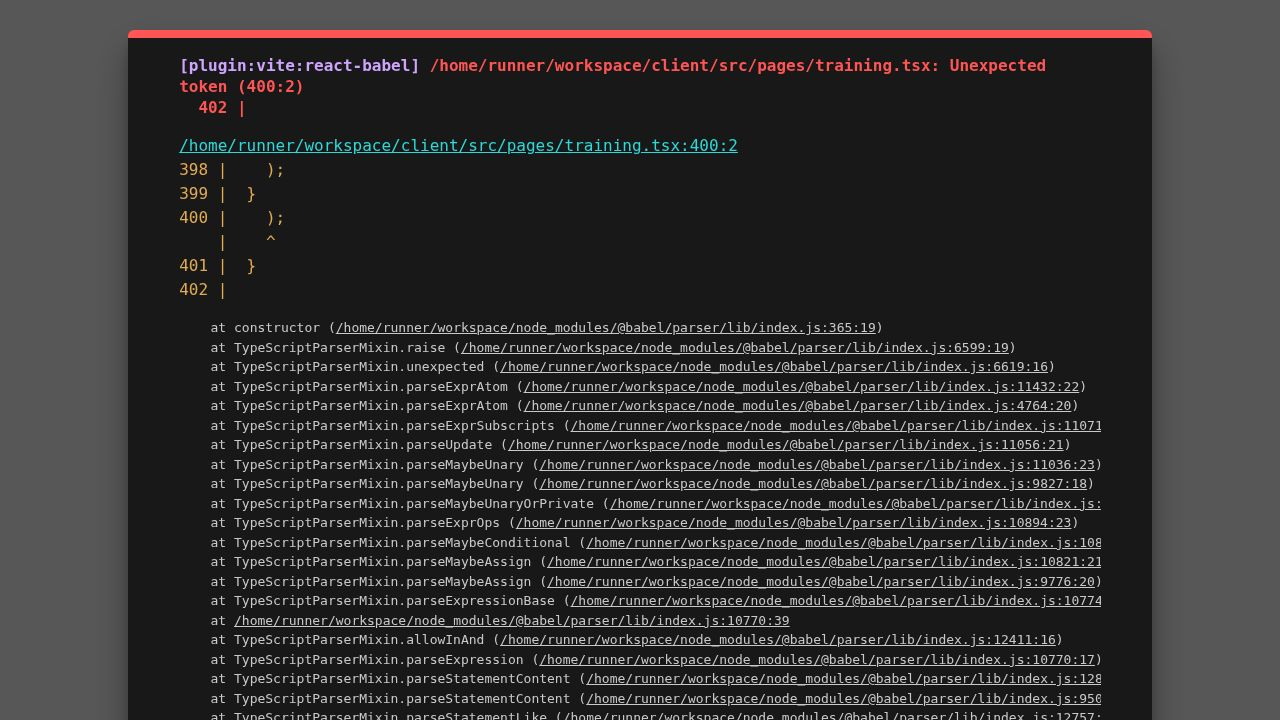
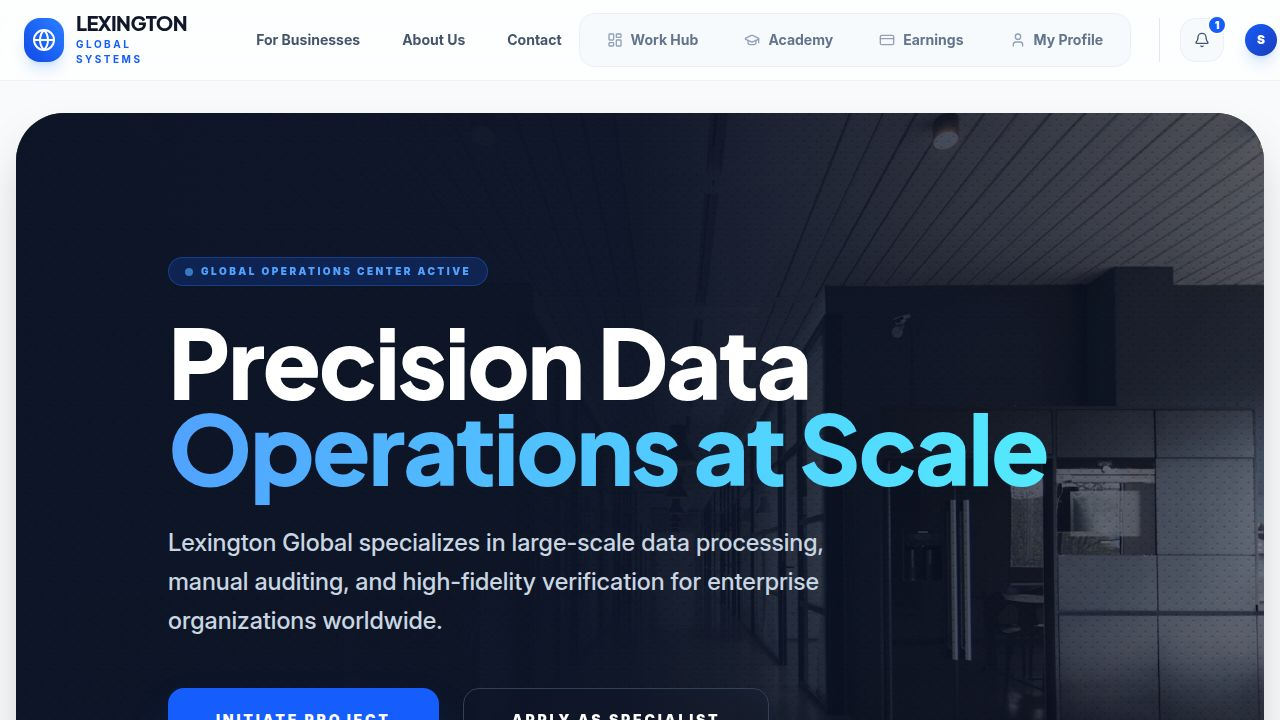
Connect registration form to backend API for new user accounts
Integrate user registration with a backend API endpoint, handling POST requests, JSON payloads, and response success/error messages.

Replit-Commit-Author: Agent
Replit-Commit-Session-Id: f589b379-64aa-4316-aa75-ceb16842489e
Replit-Commit-Checkpoint-Type: full_checkpoint
Replit-Commit-Event-Id: 1e15c450-9ac4-4d46-afa9-a17ac2c341a2
Replit-Commit-Screenshot-Url: https://storage.googleapis.com/screenshot-production-us-central1/c91d390e-e989-417a-91ce-7b18f65bbd45/f589b379-64aa-4316-aa75-ceb16842489e/vEHcCDC
Replit-Helium-Checkpoint-Created: true

diff --git a/client/src/pages/auth.tsx b/client/src/pages/auth.tsx
@@ -37,16 +37,51 @@ export default function Auth() {
     },
   });
 
-  const onSubmit = (values: z.infer<typeof authSchema>, isRegister: boolean) => {
-    // Simple mock logic for demo
-    if (values.email.includes("admin")) {
-      login(values.email, "admin");
-      toast({ title: "Welcome back, Admin", description: "You have full access." });
-      setLocation("/admin");
+  const onSubmit = async (values: z.infer<typeof authSchema>, isRegister: boolean) => {
+    if (isRegister) {
+      try {
+        const response = await fetch("https://e3530145-07c5-48e8-adfd-1ba958a88354-00-1rdomg3mwja33.riker.replit.dev/api/register", {
+          method: "POST",
+          headers: {
+            "Content-Type": "application/json",
+          },
+          body: JSON.stringify({
+            email: values.email,
+            password: values.password,
+            role: "worker"
+          }),
+        });
+
+        if (response.ok) {
+          toast({ title: "Registration successful", description: "Your account has been created." });
+          login(values.email, "worker");
+          setLocation("/dashboard");
+        } else {
+          const errorData = await response.json().catch(() => null);
+          toast({ 
+            title: "Registration failed", 
+            description: errorData?.message || "An error occurred during registration.",
+            variant: "destructive"
+          });
+        }
+      } catch (error) {
+        toast({ 
+          title: "Registration failed", 
+          description: "Network error or server is unreachable.",
+          variant: "destructive"
+        });
+      }
     } else {
-      login(values.email, "worker");
-      toast({ title: "Welcome, Worker", description: "Ready to earn?" });
-      setLocation("/dashboard");
+      // Simple mock logic for demo
+      if (values.email.includes("admin")) {
+        login(values.email, "admin");
+        toast({ title: "Welcome back, Admin", description: "You have full access." });
+        setLocation("/admin");
+      } else {
+        login(values.email, "worker");
+        toast({ title: "Welcome, Worker", description: "Ready to earn?" });
+        setLocation("/dashboard");
+      }
     }
   };
 
